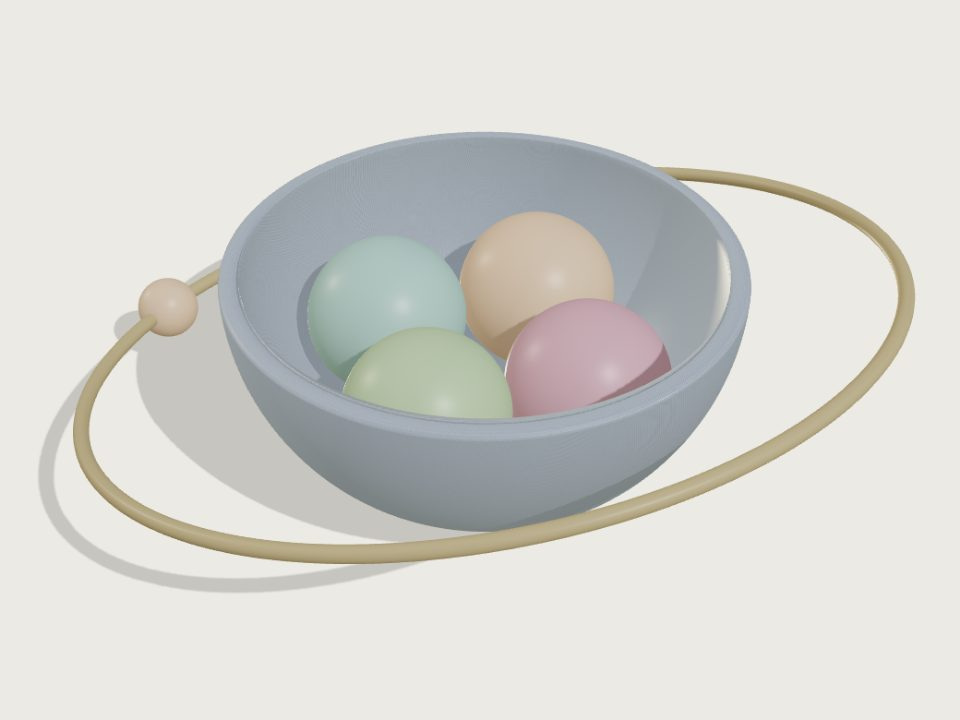
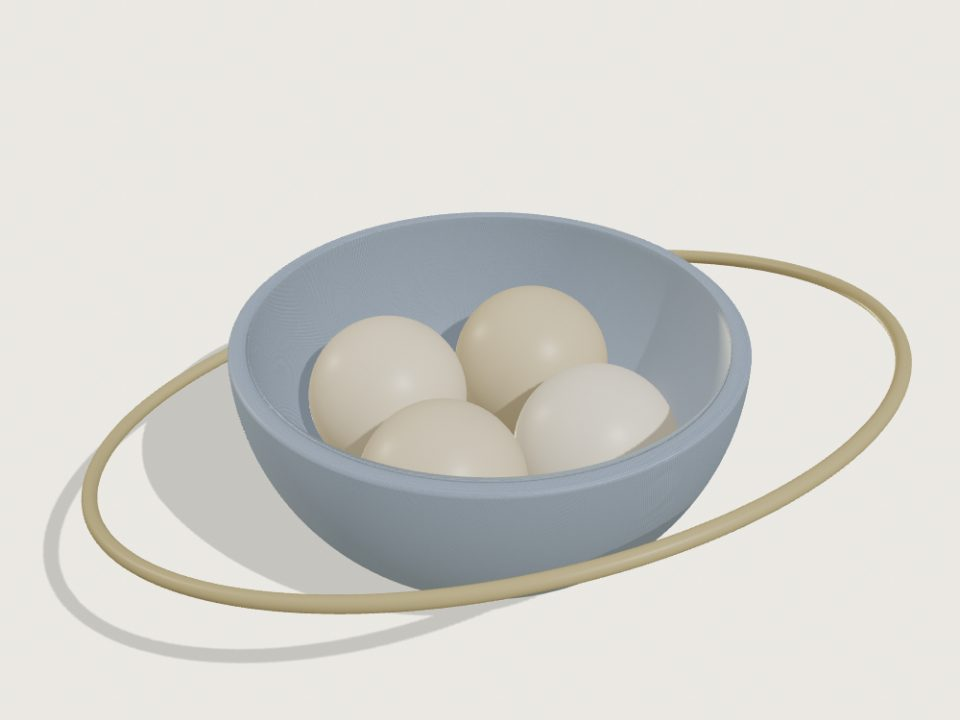
Fiscal Sponsorship opens with the blue planet becoming a bowl
- New opening scene (js/bowl.js): the loading screen reveals the blue
  planet on its orbit ring; its upper half lifts, tips back, and fades,
  showing the planet was a bowl; four ivory projects drop in one after
  another and settle. Ivory keeps anything inside from reading as
  another planet. The ring fits the width on tall screens; reduced
  motion opens on the finished bowl
- The page gains the shared loading screen and a "Scroll" cue; the
  section index stays hidden while the scene fills the view
- Offerings menu image is now the finished bowl from the live scene

Claude-Session: https://claude.ai/code/session_01MaxKzWZ5BHXyy5TwZGtmMv

diff --git a/js/bowl.js b/js/bowl.js
@@ -1,0 +1,241 @@
+// bowl.js — the Fiscal Sponsorship page's opening scene.
+// The blue planet from the home page arrives on its orbit ring, then its
+// upper half lifts away: the planet was a bowl all along. Four ivory
+// projects drop into it one after another, and it holds them. The contents
+// are ivory so that nothing inside reads as another planet.
+import * as THREE from "three";
+
+const canvas = document.getElementById("fs-canvas");
+if (!canvas) throw new Error("bowl: #fs-canvas not found");
+
+const motionOK = !window.matchMedia("(prefers-reduced-motion: reduce)").matches;
+
+// Palette — the planet and porcelain tones mirror js/main.js
+const PAPER       = 0xeceae5;
+const PASTEL_FS   = 0xb8cae0; // Fiscal Sponsorship's planet on the home page
+const CREAM_DEEP  = 0xcdbe96;
+const IVORY       = [0xf4ede0, 0xe9ddc6, 0xf0e5d0, 0xe4d6ba];
+
+// ── Renderer, scene, lights (same sculptural lighting as the home cosmos) ────
+const renderer = new THREE.WebGLRenderer({ canvas, antialias: true, alpha: false });
+renderer.setPixelRatio(Math.min(window.devicePixelRatio, 2));
+renderer.outputColorSpace = THREE.SRGBColorSpace;
+renderer.toneMapping = THREE.ACESFilmicToneMapping;
+renderer.toneMappingExposure = 1.02;
+renderer.shadowMap.enabled = true;
+renderer.shadowMap.type = THREE.PCFSoftShadowMap;
+
+const scene = new THREE.Scene();
+scene.background = new THREE.Color(PAPER);
+
+const FOV = 32;
+const camera = new THREE.PerspectiveCamera(FOV, 1, 0.1, 200);
+const LOOK_AT = new THREE.Vector3(0, 1.55, 0);
+const VIEW_DIR = new THREE.Vector3(0, 4.85, 7.6).normalize();
+
+scene.add(new THREE.AmbientLight(0xfff7e8, 0.35));
+scene.add(new THREE.HemisphereLight(0xffffff, 0xd9cfb0, 0.75));
+const keyLight = new THREE.DirectionalLight(0xffffff, 1.1);
+keyLight.position.set(6, 10, 8);
+keyLight.castShadow = true;
+const SHADOW_MAP = window.innerWidth < 720 ? 1024 : 2048;
+keyLight.shadow.mapSize.set(SHADOW_MAP, SHADOW_MAP);
+keyLight.shadow.radius = 8;
+Object.assign(keyLight.shadow.camera, { left: -5, right: 5, top: 5, bottom: -5 });
+scene.add(keyLight);
+const fillLight = new THREE.DirectionalLight(0xfff1d8, 0.5);
+fillLight.position.set(-8, 3, -4);
+scene.add(fillLight);
+const rimLight = new THREE.DirectionalLight(0xf1e4bf, 0.55);
+rimLight.position.set(-2, -6, -8);
+scene.add(rimLight);
+
+const porcelain = (color, roughness = 0.38, extra = {}) =>
+  new THREE.MeshStandardMaterial({ color, roughness, metalness: 0, ...extra });
+
+// Paper floor that only receives the soft shadow
+const ground = new THREE.Mesh(new THREE.PlaneGeometry(40, 40), new THREE.ShadowMaterial({ opacity: 0.16 }));
+ground.rotation.x = -Math.PI / 2;
+ground.receiveShadow = true;
+scene.add(ground);
+
+// ── The planet: two thick-walled halves that meet at the rim ─────────────────
+// The lower half is the bowl. The upper half is the same shell mirrored.
+// Until it opens, a whole sphere stands in for the pair, so the closed
+// planet shows no seam.
+const R = 1.55, T = 0.12;
+const profile = [];
+for (let i = 0; i <= 40; i++) { const a = (i / 40) * Math.PI / 2; profile.push(new THREE.Vector2(Math.sin(a) * R, R - Math.cos(a) * R)); }
+for (let i = 0; i <= 8; i++) { const a = Math.PI + (i / 8) * Math.PI; profile.push(new THREE.Vector2(R - T / 2 + Math.cos(a) * -T / 2, R + Math.sin(a) * -T / 2 * 0.6)); }
+for (let i = 40; i >= 0; i--) { const a = (i / 40) * Math.PI / 2; profile.push(new THREE.Vector2(Math.sin(a) * (R - T), R - Math.cos(a) * (R - T) + T * 0.4)); }
+const shellGeo = new THREE.LatheGeometry(profile, 160);
+
+// Everything that turns slowly together: the bowl, its lid, and the projects
+const vessel = new THREE.Group();
+scene.add(vessel);
+
+const planet = new THREE.Mesh(new THREE.SphereGeometry(R, 96, 64), porcelain(PASTEL_FS, 0.34));
+planet.position.y = R;
+planet.castShadow = true;
+vessel.add(planet);
+
+const bowl = new THREE.Mesh(shellGeo, porcelain(PASTEL_FS, 0.34, { side: THREE.DoubleSide }));
+bowl.castShadow = true;
+bowl.receiveShadow = true;
+vessel.add(bowl);
+
+// The upper half pivots at the rim's centre, so it can lift and tip like a lid
+const lidPivot = new THREE.Group();
+lidPivot.position.y = R;
+vessel.add(lidPivot);
+const lidMat = porcelain(PASTEL_FS, 0.34, { side: THREE.DoubleSide, transparent: true });
+const lid = new THREE.Mesh(shellGeo, lidMat);
+lid.scale.y = -1;
+lid.position.y = R;
+lid.castShadow = true;
+lidPivot.add(lid);
+
+// ── The projects: four ivory spheres that settle against the bowl's floor ────
+const SR = 0.5, SD = 0.7, DROP = 5;
+const projects = IVORY.map((color, i) => {
+  const ang = i * Math.PI / 2 + 0.5;
+  const x = Math.cos(ang) * SD, z = Math.sin(ang) * SD;
+  const r = R - T - SR;
+  const rest = new THREE.Vector3(x, R - Math.sqrt(Math.max(0, r * r - x * x - z * z)), z);
+  const mesh = new THREE.Mesh(new THREE.SphereGeometry(SR, 64, 64), porcelain(color));
+  mesh.castShadow = true;
+  mesh.receiveShadow = true;
+  mesh.visible = false;
+  vessel.add(mesh);
+  return { mesh, rest, from: new THREE.Vector3(x * 0.35, rest.y + DROP, z * 0.35) };
+});
+
+// ── The planet's orbit ring, kept around it throughout ───────────────────────
+const ring = new THREE.Mesh(new THREE.TorusGeometry(2.45, 0.045, 24, 256), porcelain(CREAM_DEEP, 0.35));
+ring.rotation.set(Math.PI / 2 - 0.22, 0.18, 0);
+ring.position.y = 1.15;
+ring.castShadow = true;
+scene.add(ring);
+
+// ── Framing: the ring always fits the width; tall screens step back ──────────
+const RING_HALF_W = 3.1;
+const BASE_DIST = 9.0;
+let dist = BASE_DIST;
+function resize() {
+  const w = canvas.clientWidth, h = canvas.clientHeight;
+  if (!w || !h) return;
+  renderer.setSize(w, h, false);
+  camera.aspect = w / h;
+  camera.updateProjectionMatrix();
+  const tanHalf = Math.tan(THREE.MathUtils.degToRad(FOV / 2));
+  dist = Math.max(BASE_DIST, RING_HALF_W / (tanHalf * camera.aspect));
+}
+window.addEventListener("resize", resize);
+resize();
+
+// Gentle pointer parallax
+const drift = { x: 0, y: 0, tx: 0, ty: 0 };
+window.addEventListener("pointermove", (e) => {
+  drift.tx = (e.clientX / window.innerWidth) * 2 - 1;
+  drift.ty = (e.clientY / window.innerHeight) * 2 - 1;
+}, { passive: true });
+
+// Don't render while the stage is scrolled out of view
+let onScreen = true;
+new IntersectionObserver(([e]) => { onScreen = e.isIntersecting; }).observe(canvas);
+
+// ── Timeline ─────────────────────────────────────────────────────────────────
+// The planet and its ring arrive as the loading screen opens; the bowl opens
+// once the overlay has gone.
+const clock = new THREE.Clock();
+let holeT = Infinity, openT = Infinity;
+function onHole() { if (!isFinite(holeT)) holeT = clock.getElapsedTime(); }
+function onDone() {
+  onHole();
+  if (!isFinite(openT)) openT = clock.getElapsedTime() + (motionOK ? 0.6 : -100);
+}
+// ls.js flags each event on window (e.g. window["__mulvium_ls-hole"]) for late listeners
+if (window["__mulvium_ls-hole"]) onHole(); else document.addEventListener("mulvium:ls-hole", onHole);
+if (window["__mulvium_ls-done"]) onDone(); else document.addEventListener("mulvium:ls-done", onDone);
+setTimeout(onDone, 10000); // safety if the overlay never reports
+
+const LIFT_DUR = 1.6;          // the upper half lifts and fades
+const DROP_START = 0.9;        // first project begins to fall (after openT)
+const DROP_GAP = 0.42;         // between projects
+const FALL = 0.62, SETTLE = 0.38;
+const HELD_AT = DROP_START + DROP_GAP * (projects.length - 1) + FALL + SETTLE;
+
+const clamp01 = (x) => Math.min(1, Math.max(0, x));
+const lerp = (a, b, t) => a + (b - a) * t;
+const smooth = (a, b, x) => { const t = clamp01((x - a) / (b - a)); return t * t * (3 - 2 * t); };
+const easeInOut = (t) => (t < 0.5 ? 2 * t * t : 1 - Math.pow(-2 * t + 2, 2) / 2);
+const easeOutBack = (t) => { const c = 1.4; return 1 + (c + 1) * Math.pow(t - 1, 3) + c * Math.pow(t - 1, 2); };
+
+const cue = document.getElementById("fs-cue");
+let lastT = 0;
+function animate() {
+  requestAnimationFrame(animate);
+  const t = clock.getElapsedTime();
+  const dt = Math.min(0.05, t - lastT);
+  lastT = t;
+  if (!onScreen) return;
+
+  // Arrival: the planet swells into place and its ring closes in around it
+  const a = isFinite(holeT) ? (motionOK ? clamp01((t - holeT) / 1.1) : 1) : 0;
+  vessel.scale.setScalar(Math.max(0.0001, easeOutBack(a)));
+  const rr = isFinite(holeT) ? (motionOK ? clamp01((t - holeT) / 1.9) : 1) : 0;
+  ring.scale.setScalar(lerp(3.2, 1, easeInOut(rr)));
+  ring.visible = rr > 0;
+
+  // Opening: the upper half lifts, tips back, and fades away
+  const since = t - openT;
+  const o = isFinite(openT) ? clamp01(since / LIFT_DUR) : 0;
+  const lift = easeInOut(o);
+  lidPivot.position.y = R + lift * 1.1;
+  lidPivot.rotation.x = -0.35 * lift;
+  lidMat.opacity = 1 - smooth(0.25, 1, o);
+  planet.visible = o === 0;
+  bowl.visible = o > 0;
+  lid.castShadow = o < 0.35;
+  lid.visible = o > 0 && o < 1;
+
+  // The projects drop in one after another and settle with a small rebound
+  projects.forEach((p, i) => {
+    const k = isFinite(openT) ? since - DROP_START - i * DROP_GAP : -1;
+    if (k < 0) { p.mesh.visible = false; return; }
+    p.mesh.visible = true;
+    if (k < FALL) {
+      const f = k / FALL;
+      p.mesh.position.lerpVectors(p.from, p.rest, f);
+      p.mesh.position.y = lerp(p.from.y, p.rest.y, f * f);   // falls, gathering speed
+      p.mesh.scale.setScalar(Math.max(0.0001, smooth(0, 0.25, f)));
+      // High up, its shadow would land far off to the side; it joins near the bowl
+      p.mesh.castShadow = f > 0.75;
+    } else {
+      p.mesh.castShadow = true;
+      const s = clamp01((k - FALL) / SETTLE);
+      p.mesh.position.copy(p.rest);
+      p.mesh.position.y += Math.sin(Math.PI * s) * 0.14 * (1 - s);
+      p.mesh.scale.setScalar(1);
+    }
+  });
+
+  // Once it holds them, the bowl turns slowly
+  if (motionOK) vessel.rotation.y += dt * 0.1;
+
+  if (cue) cue.style.opacity = String(isFinite(openT) ? smooth(HELD_AT - 0.2, HELD_AT + 0.6, since) : 0);
+
+  // Camera: the fixed view, stepped back on tall screens, with a little parallax
+  camera.position.copy(LOOK_AT).addScaledVector(VIEW_DIR, dist);
+  if (motionOK) {
+    const kk = 1 - Math.pow(0.02, dt);
+    drift.x += (drift.tx - drift.x) * kk;
+    drift.y += (drift.ty - drift.y) * kk;
+    camera.position.x += drift.x * 0.25;
+    camera.position.y += -drift.y * 0.14;
+  }
+  camera.lookAt(LOOK_AT);
+
+  renderer.render(scene, camera);
+}
+animate();

diff --git a/pages/offerings/fiscal-sponsorship.html b/pages/offerings/fiscal-sponsorship.html
@@ -3,6 +3,7 @@
 <head>
   <meta charset="UTF-8" />
   <meta name="viewport" content="width=device-width, initial-scale=1.0" />
+  <script>document.documentElement.classList.add('ls-instant-cover');</script>
   <title>Fiscal Sponsorship &mdash; Mulvium</title>
   <link rel="stylesheet" href="../../css/style.css" />
   <link href="https://fonts.googleapis.com/css2?family=Cinzel:wght@400;500&family=Cormorant+Garamond:ital,wght@0,300;0,400;0,500;0,600;1,400&family=Cormorant+SC:wght@400;500&family=DM+Sans:ital,wght@0,300;0,400;0,500;0,600;0,900;1,300;1,400&family=Great+Vibes&family=Inter:wght@300;400;500;600&family=Italiana&family=Pinyon+Script&family=Playfair+Display:ital,wght@0,400;0,500;1,400&display=swap" rel="stylesheet" />
@@ -62,6 +63,13 @@
     <a href="#projects" data-spy="projects"><span class="fs-rail-num">03</span><span class="fs-rail-label">Four projects</span></a>
     <a href="#begin" data-spy="begin"><span class="fs-rail-num">04</span><span class="fs-rail-label">Begin</span></a>
   </nav>
+
+  <!-- The blue planet from the home page opens: it was a bowl all along,
+       and four projects settle into it (js/bowl.js) -->
+  <section class="fs-stage" aria-label="The Fiscal Sponsorship planet opens into a bowl that holds four projects">
+    <canvas id="fs-canvas" aria-hidden="true"></canvas>
+    <p class="fs-cue" id="fs-cue" aria-hidden="true">Scroll</p>
+  </section>
 
   <main class="fs-main">
 
@@ -385,6 +393,20 @@
       <p>&copy; <span id="year"></span> Mulvium Foundation. All rights reserved.</p>
     </div>
   </footer>
+  <!-- Loading screen — nested image frames reveal the planet beneath -->
+  <div id="loading-screen" aria-hidden="true">
+    <div id="ls-f1" class="ls-frame"><div class="ls-img"></div></div>
+    <div id="ls-f2" class="ls-frame"><div class="ls-img"></div></div>
+    <div id="ls-f3" class="ls-frame"><div class="ls-img"></div></div>
+    <div id="ls-f4" class="ls-frame"><div class="ls-img"></div></div>
+    <div id="ls-border" class="ls-frame"></div>
+  </div>
+
+  <script src="../../js/ls.js"></script>
+  <script type="importmap">
+    { "imports": { "three": "https://unpkg.com/three@0.161.0/build/three.module.js" } }
+  </script>
+  <script type="module" src="../../js/bowl.js"></script>
   <script src="../../js/cursor.js" defer></script>
   <script src="../../js/nav.js"></script>
   <script src="../../js/page-transition.js"></script>

diff --git a/js/fiscal.js b/js/fiscal.js
@@ -1,4 +1,5 @@
-// fiscal.js — the Fiscal Sponsorship page's text motion and navigation:
+// fiscal.js — the Fiscal Sponsorship page's text motion and navigation
+// (the opening scene is js/bowl.js):
 // headings whose words rise, a rotating word in the headline, reveals, a
 // section index and reading progress that follow the scroll, a timeline that
 // fills as it is read, the "on your own / with Mulvium" switch, plain-terms
@@ -68,6 +69,7 @@
   var railLinks = rail ? Array.prototype.slice.call(rail.querySelectorAll("a")) : [];
   var sections = railLinks.map(function (a) { return document.getElementById(a.dataset.spy); });
   var progress = document.querySelector(".fs-progress span");
+  var stage = document.querySelector(".fs-stage");
   var steps = document.querySelector(".fs-steps");
   var stepItems = steps ? steps.querySelectorAll("li") : [];
   var ticking = false;
@@ -89,6 +91,8 @@
       if (i === current) a.setAttribute("aria-current", "true"); else a.removeAttribute("aria-current");
     });
     if (rail) rail.style.setProperty("--rail", (current / Math.max(1, railLinks.length - 1)).toFixed(3));
+    // The index stays out of the way while the opening scene fills the view
+    if (rail && stage) rail.classList.toggle("is-away", stage.getBoundingClientRect().bottom > vh * 0.5);
 
     // The timeline fills as it moves up through the view
     if (steps) {

diff --git a/css/style.css b/css/style.css
@@ -1994,6 +1994,36 @@ html:has(body.fs-page) { scroll-behavior: smooth; }
 
 .fs-words.is-in .fs-w > span { transform: none; }
 
+/* ---- Opening stage: the planet becomes the bowl (js/bowl.js) ---- */
+.fs-stage {
+  position: relative;
+  height: 100vh;
+  height: 100svh;
+}
+
+#fs-canvas {
+  position: absolute;
+  inset: 0;
+  width: 100%;
+  height: 100%;
+  display: block;
+}
+
+.fs-cue {
+  position: absolute;
+  left: 0;
+  right: 0;
+  bottom: clamp(18px, 4vh, 36px);
+  margin: 0;
+  text-align: center;
+  font-family: "Cormorant Garamond", serif;
+  font-size: 15px;
+  letter-spacing: 0.04em;
+  color: var(--ink-soft);
+  opacity: 0;
+  pointer-events: none;
+}
+
 /* ---- Reading progress ---- */
 .fs-progress {
   position: fixed;
@@ -2027,6 +2057,9 @@ html:has(body.fs-page) { scroll-behavior: smooth; }
 }
 
 @media (min-width: 1240px) { .fs-rail { display: flex; } }
+
+.fs-rail { transition: opacity 0.5s var(--ease); }
+.fs-rail.is-away { opacity: 0; pointer-events: none; }
 
 .fs-rail-track {
   position: absolute;

diff --git a/README.md b/README.md
@@ -18,6 +18,8 @@ of the for-profit arm), Oak, and a fourth to be announced.
 - `js/main.js` — Three.js module for the landing page: the cosmos and its framing
   per layout, the hero, the 2D night transition, and interactions.
 - `js/fsos.js` — the FSOS page: a nonprofit's AI workforce circling its Chief of Staff.
+- `js/bowl.js` — the Fiscal Sponsorship page's opening: the blue planet's upper half
+  lifts away, revealing a bowl, and four ivory projects settle into it.
 - `js/fiscal.js` — the Fiscal Sponsorship page's text motion and navigation: section
   index, reading progress, comparison switch, timeline, and project tabs.
 - `js/oak.js` — the Oak page: the planet becomes an acorn among leaves, and
